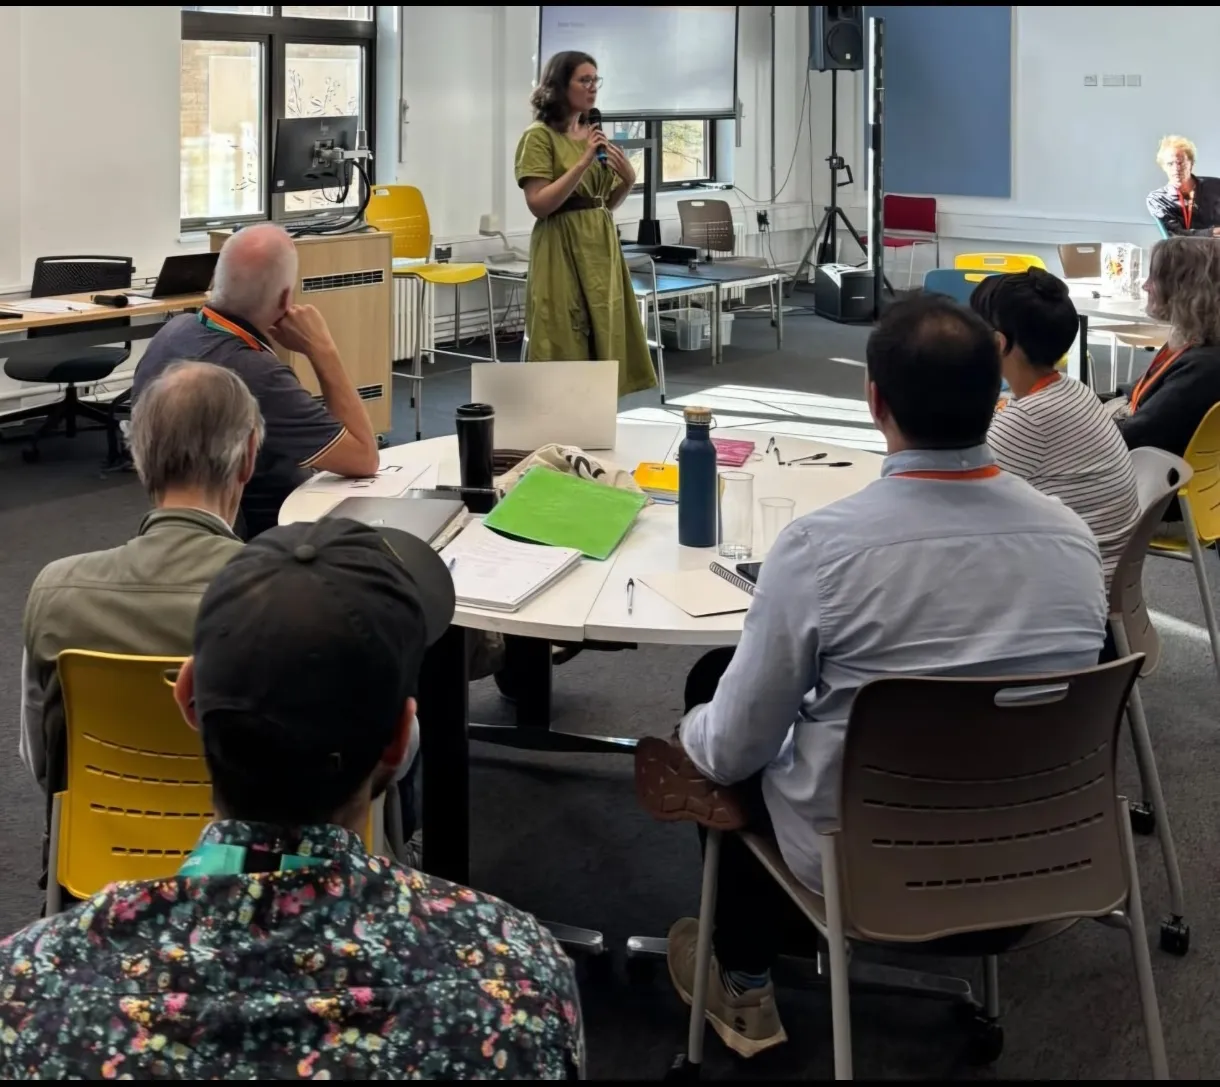
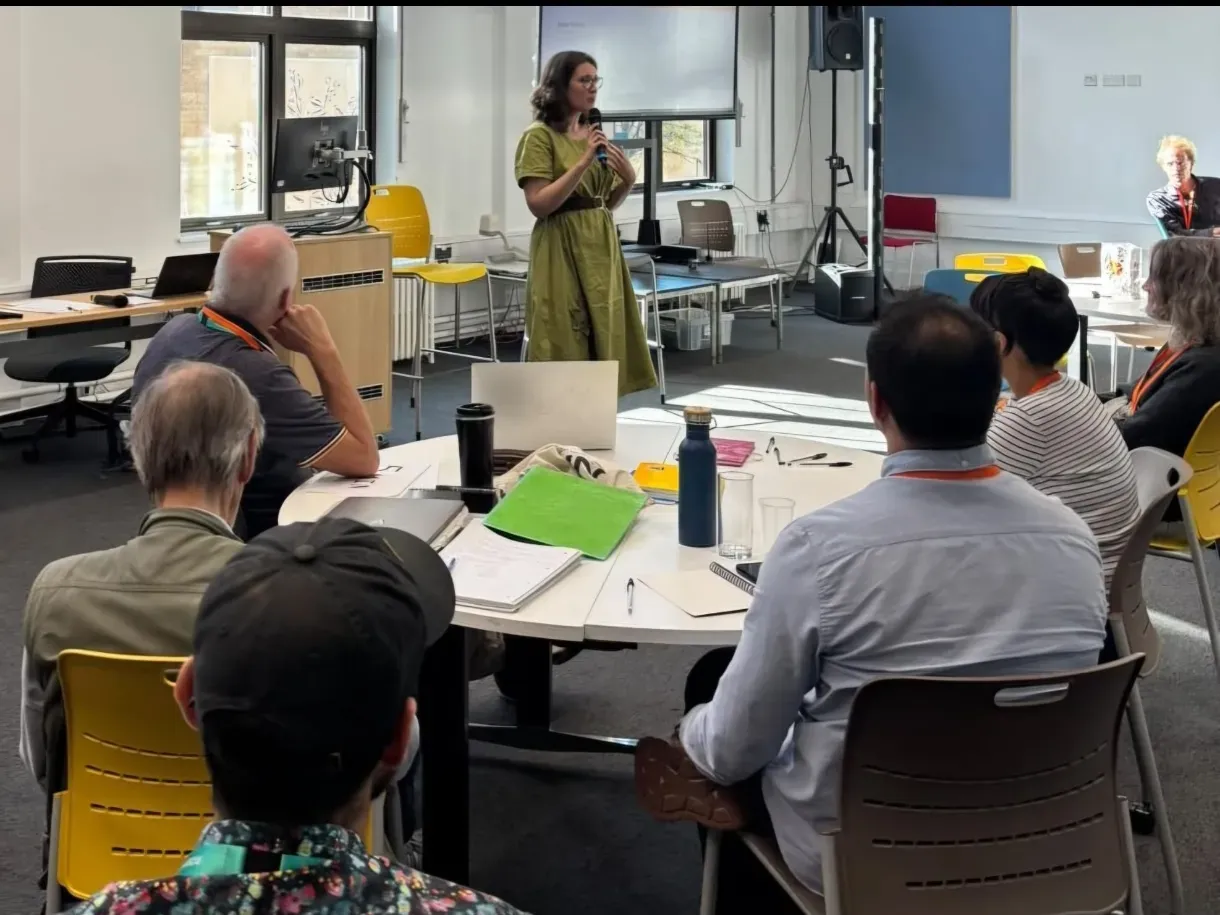
feat(cms): build the Freedom of Information page from content
Raluca's workshop photo is cropped to 4:3 from the top, as its object-top
crop showed it, since content photos are centre-cropped.

diff --git a/src/app/freedom-of-information/page.tsx b/src/app/freedom-of-information/page.tsx
@@ -1,200 +1,13 @@
 import type { Metadata } from "next";
-import Image from "next/image";
-import { Suspense } from "react";
-import Nav from "../Nav";
-import Footer from "../Footer";
-import ApplyForm from "../apply/ApplyForm";
-import ApplyToast from "../ApplyToast";
-import ContactErrorBanner from "../ContactErrorBanner";
-import WavyUnderline from "../WavyUnderline";
+import content from "../../../content/freedom-of-information.json";
+import PageView, { pageMetadata } from "@/cms/PageView";
+import { parsePage } from "@/cms/schema";
 
-function Rule() {
-  return (
-    <svg viewBox="0 0 52 12" width="56" height="13" aria-hidden fill="none">
-      <path d="M0 5 C14 2 38 8 52 5 C38 10 14 7 0 5Z" fill="#9b1c1f" />
-    </svg>
-  );
-}
+// Rendered from content/freedom-of-information.json at build time; the page is static.
+const page = parsePage("freedom-of-information", content);
 
-export const metadata: Metadata = {
-  title: "Freedom of Information Requests | Law for AI Safety",
-  description:
-    "Our Freedom of Information request on catastrophic and existential AI risks, aimed at EU Member States, and how to help translate, submit, or co-sign it.",
-  alternates: {
-    canonical: "/freedom-of-information",
-  },
-};
-
-const photos = [
-  {
-    src: "/images/raluca-spataru-conference.webp",
-    alt: "Raluca Spataru speaking with a microphone to a small group seated around a round table",
-    position: "object-top",
-  },
-  {
-    src: "/images/foi-workshop-audience.webp",
-    alt: "Workshop participants seated in a meeting space, listening to Raluca Spataru presenting",
-    position: "object-center",
-  },
-];
-
-const steps = [
-  {
-    title: "Drafted and reviewed",
-    body: "We have drafted a Freedom of Information request on catastrophic and existential risks from AI, aimed at EU Member States. The Future of Life Institute has reviewed it.",
-  },
-  {
-    title: "Being translated",
-    body: "We are translating the request into the languages of EU Member States, with translation coordinated by our Legal Advisor, Raluca Spataru.",
-  },
-  {
-    title: "Submitted country by country",
-    body: "Each request needs someone who can read the local language and submit it. Organisations in Member States can also co-sign.",
-  },
-];
-
-// Whether this page shows the application form or the "not open right now"
-// message. The page is prerendered, so this is fixed at build time and changed
-// by a code (later a content) change. The admin signup toggle is an emergency
-// stop enforced by the submit routes; it does not hide the form.
-// The closed branch stays, unused while this is true: W3 makes this a content field.
-const SIGNUP_OPEN = true;
+export const metadata: Metadata = pageMetadata("freedom-of-information", page);
 
 export default function FreedomOfInformationPage() {
-  return (
-    <main className="flex flex-col font-sans">
-      <Nav />
-
-      <Suspense fallback={null}>
-        <ApplyToast />
-      </Suspense>
-
-      {/* Hero */}
-      <section className="bg-brand-white flex flex-col justify-center px-8 md:px-16 pt-44 pb-20 md:pt-52 md:pb-24">
-        <div className="max-w-4xl mx-auto w-full flex flex-col gap-8 max-w-3xl">
-          <h1
-            className="text-4xl md:text-6xl font-light text-brand-black leading-[1.1] tracking-tight"
-            style={{ textWrap: "balance" }}
-          >
-            Freedom of Information requests on AI risk
-          </h1>
-          <Rule />
-          <p className="text-xl md:text-2xl font-light text-brand-navy/85 leading-relaxed max-w-2xl">
-            Effective AI governance depends on transparency, robust oversight,
-            and meaningful accountability. We are filing <WavyUnderline>Freedom of Information</WavyUnderline> requests with EU
-            Member States about catastrophic and existential risks from AI.
-          </p>
-        </div>
-      </section>
-
-      {/* Steps, RLD-style numbered sections */}
-      <section className="bg-brand-navy/[0.04] px-8 md:px-16 py-20 md:py-28 border-t border-brand-black/10">
-        <div className="max-w-4xl mx-auto flex flex-col gap-10">
-          {steps.map((step, i) => (
-            <div
-              key={step.title}
-              className="flex gap-6 pt-8 border-t border-brand-black/10 first:pt-0 first:border-t-0"
-            >
-              <span className="text-6xl md:text-8xl font-light leading-[0.8] [font-variant-numeric:lining-nums] text-brand-red/30 flex-shrink-0 w-12 md:w-24 pt-1">
-                {i + 1}
-              </span>
-              <div className="flex flex-col gap-2">
-                <h3 className="text-xl md:text-2xl font-light text-brand-black">
-                  {step.title}
-                </h3>
-                <p className="text-lg font-light text-brand-navy/85 leading-relaxed max-w-2xl">
-                  {step.body}
-                </p>
-              </div>
-            </div>
-          ))}
-        </div>
-      </section>
-
-      {/* Why it matters */}
-      <section className="bg-brand-navy px-8 md:px-16 py-24 md:py-32">
-        <div className="max-w-4xl mx-auto flex flex-col gap-8">
-          <Rule />
-          <blockquote
-            className="text-3xl md:text-5xl font-light text-brand-white leading-tight max-w-2xl"
-            style={{ textWrap: "balance" }}
-          >
-            We believe this could increase cohesion on AI governance in the EU,
-            support better-targeted advocacy, and potentially provide evidence
-            in future legal actions.
-          </blockquote>
-        </div>
-      </section>
-
-      {/* Workshops */}
-      <section className="bg-brand-white px-8 md:px-16 py-20 md:py-28 border-t border-brand-black/10">
-        <div className="max-w-4xl mx-auto flex flex-col gap-10">
-          <p className="text-lg md:text-xl font-light text-brand-black/85 leading-relaxed max-w-2xl">
-            Our Legal Advisor, Raluca Spataru, has also facilitated workshops
-            on the FOI initiative, which has sparked interest in starting
-            similar initiatives in the US and Canada.
-          </p>
-          <div className="max-w-2xl grid grid-cols-1 md:grid-cols-2 gap-4">
-            {photos.map((photo) => (
-              <div
-                key={photo.src}
-                className="relative w-full aspect-[4/3] rounded-sm overflow-hidden"
-              >
-                <Image
-                  src={photo.src}
-                  alt={photo.alt}
-                  fill
-                  className={`object-cover ${photo.position}`}
-                  sizes="(max-width: 768px) 100vw, 326px"
-                />
-              </div>
-            ))}
-          </div>
-        </div>
-      </section>
-
-      {/* Get involved */}
-      <section
-        id="contact"
-        className="bg-brand-navy/[0.04] px-8 md:px-16 py-20 md:py-28 border-t border-brand-black/10"
-      >
-        <div className="max-w-4xl mx-auto flex flex-col gap-8">
-          <Rule />
-          <h2 className="text-3xl md:text-4xl font-light text-brand-black leading-tight max-w-xl">
-            Help us file in every Member State
-          </h2>
-          <p className="text-lg md:text-xl font-light text-brand-navy/85 leading-relaxed max-w-2xl">
-            We are already funded to get this started. To take it to every
-            Member State, we need translators and legal volunteers who can
-            help with translation and submission in their country,
-            organisations in EU Member States willing to co-sign, and funders
-            to extend the work.
-          </p>
-
-          <Suspense fallback={null}>
-            <ContactErrorBanner />
-          </Suspense>
-
-          {SIGNUP_OPEN ? (
-            <div className="max-w-2xl">
-              <ApplyForm source="foi" />
-            </div>
-          ) : (
-            <p className="text-lg font-light text-brand-navy/85 leading-relaxed max-w-2xl">
-              Applications aren&apos;t open right now. Email{" "}
-              <a
-                href="mailto:info@lawforaisafety.org"
-                className="underline hover:text-brand-black"
-              >
-                info@lawforaisafety.org
-              </a>{" "}
-              to register your interest.
-            </p>
-          )}
-        </div>
-      </section>
-
-      <Footer />
-    </main>
-  );
+  return <PageView slug="freedom-of-information" page={page} />;
 }
